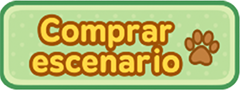
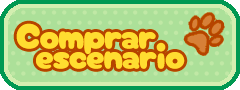
Se actualizaron texturas de botones, e incorporaron botones animados a algunos de ellos

diff --git a/src/main/java/org/udec/visual/acciones/PanelJuegos.java b/src/main/java/org/udec/visual/acciones/PanelJuegos.java
@@ -1,6 +1,8 @@
 package org.udec.visual.acciones;
 
 import org.udec.mascotas.Mascota;
+import org.udec.util.enumerations.BotonesUI;
+import org.udec.visual.JButtonAnimado;
 import org.udec.visual.PanelEscenario;
 import org.udec.util.listeners.DineroObtenidoListener;
 import org.udec.visual.VentanaPrincipal;
@@ -20,11 +22,8 @@ public class PanelJuegos extends JPanel {
 
         this.setOpaque(false); // Hacer el panel transparente
 
-        botonJugar = new JButton("Jugar");
-        botonJugar.setBounds(VentanaPrincipal.ANCHO / 2 - 50, VentanaPrincipal.ALTO - 104, 100, 50);
+        botonJugar = new JButtonAnimado(BotonesUI.BOTON_JUGAR.getImagen(), VentanaPrincipal.ANCHO / 2 - 50, VentanaPrincipal.ALTO - 104, 100, 50);
         botonJugar.addActionListener(e -> this.jugar());
-        botonJugar.setFocusable(false);
-        botonJugar.setVisible(true);
         this.add(botonJugar);
     }
 

diff --git a/src/main/java/org/udec/visual/PanelEscenario.java b/src/main/java/org/udec/visual/PanelEscenario.java
@@ -37,7 +37,7 @@ public class PanelEscenario extends JPanel {
         this.setBounds(0,0, VentanaPrincipal.ANCHO, VentanaPrincipal.ALTO);
         this.imagenEscenario = CargadorDeImagenes.cargarImagen("/escenarios/base.png");
         botonInicializarEscenario = new BotonInicializarEscenario(this, VentanaPrincipal.ANCHO / 2 - 120, VentanaPrincipal.ALTO / 2 - 60);
-        botonAdoptarMascota = new BotonAdoptarMascota(this, VentanaPrincipal.ANCHO / 2 - 100, VentanaPrincipal.ALTO / 2 - 50);
+        botonAdoptarMascota = new BotonAdoptarMascota(this, VentanaPrincipal.ANCHO / 2 - 120, VentanaPrincipal.ALTO / 2 - 60);
         panelEstado = new PanelEstado(this, VentanaPrincipal.ANCHO / 2 - 130, 6);
         botonVenderMascota = new BotonVenderMascota(this, VentanaPrincipal.ANCHO - 70, VentanaPrincipal.ALTO - 160);
         crearMascotaInteractuable();

diff --git a/src/main/java/org/udec/visual/BotonAdoptarMascota.java b/src/main/java/org/udec/visual/BotonAdoptarMascota.java
@@ -2,16 +2,14 @@ package org.udec.visual;
 
 import org.udec.util.comandos.AdoptarMascotaCommand;
 import org.udec.util.comandos.Command;
+import org.udec.util.enumerations.BotonesUI;
 
-import javax.swing.*;
 
-public class BotonAdoptarMascota extends JButton {
+public class BotonAdoptarMascota extends JButtonAnimado {
 
     public BotonAdoptarMascota(PanelEscenario panelEscenario, int x, int y) {
-        super("Adoptar Mascota");
-        setBounds(x, y, 200, 50);
-        setFocusable(false);
-        setVisible(false);
+        super(BotonesUI.BOTON_ADOPTARMASCOTA.getImagen(), x, y, 240, 90);
+        setVisible(true);
 
         panelEscenario.add(this);
 

diff --git a/src/main/java/org/udec/visual/BotonVenderMascota.java b/src/main/java/org/udec/visual/BotonVenderMascota.java
@@ -2,15 +2,14 @@ package org.udec.visual;
 
 import org.udec.util.comandos.Command;
 import org.udec.util.comandos.VenderMascotaCommand;
+import org.udec.util.enumerations.BotonesUI;
 
 import javax.swing.*;
 
-public class BotonVenderMascota extends JButton{
+public class BotonVenderMascota extends JButtonAnimado{
 
     BotonVenderMascota(PanelEscenario panelEscenario, int x, int y) {
-        super("Vender Mascota");
-        setBounds(x, y, 50, 140);
-        setFocusable(false);
+        super(BotonesUI.BOTON_VENDERMASCOTA.getImagen(), x, y, 50, 140);
         setVisible(false);
 
         panelEscenario.add(this);

diff --git a/src/main/java/org/udec/util/enumerations/BotonesUI.java b/src/main/java/org/udec/util/enumerations/BotonesUI.java
@@ -16,6 +16,9 @@ public enum BotonesUI {
     BOTON_IZQUIERDASMALL("/interfaz/botonIzquierdaSmall.png"),
     BOTON_DERECHASMALL("/interfaz/botonDerechaSmall.png"),
     BOTON_COMPRARESCENARIO("/interfaz/botonComprarEscenario.png"),
+    BOTON_ADOPTARMASCOTA("/interfaz/botonAdoptarMascota.png"),
+    BOTON_JUGAR("/interfaz/botonJugar.png"),
+    BOTON_VENDERMASCOTA("/interfaz/botonVenderMascota.png"),
     BOTON_TIENDA("/interfaz/botonTienda.png");
 
     private final ImageIcon imagen;
